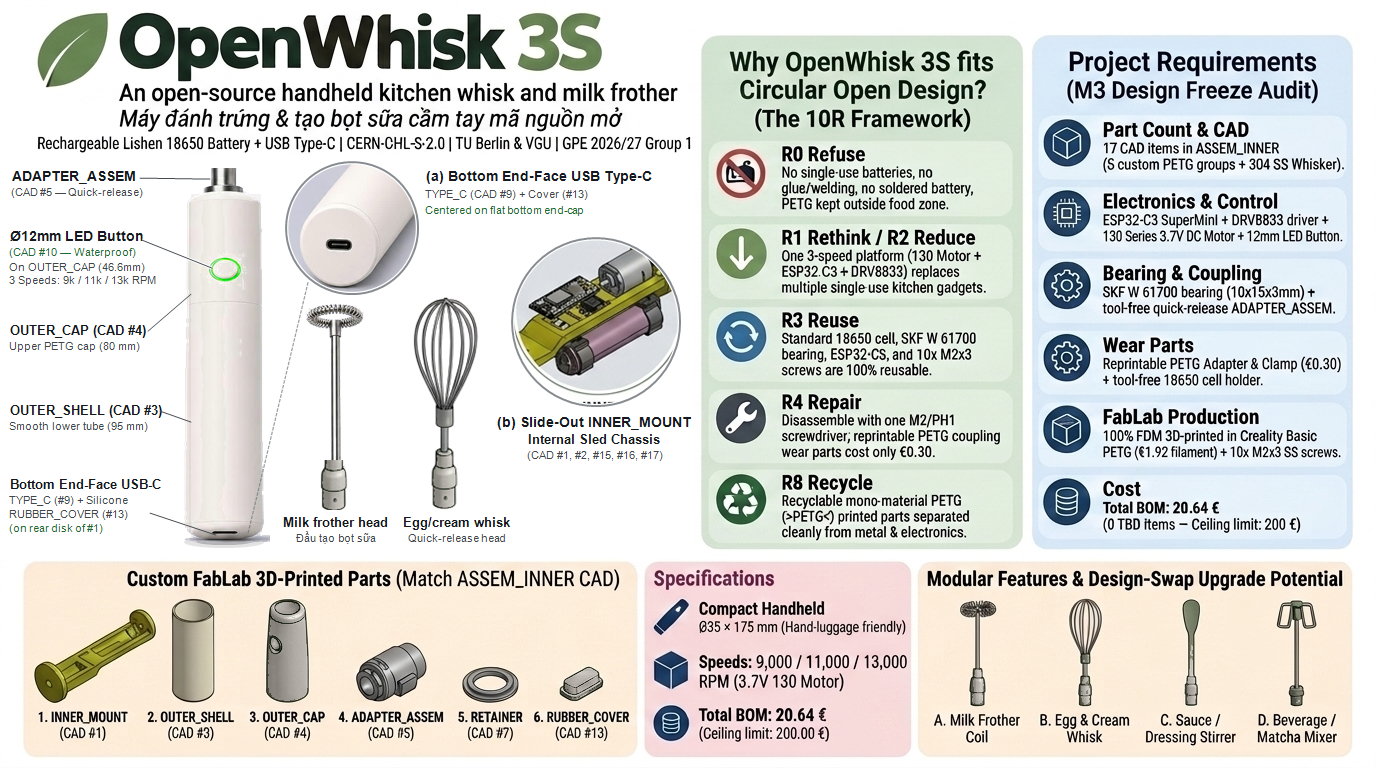
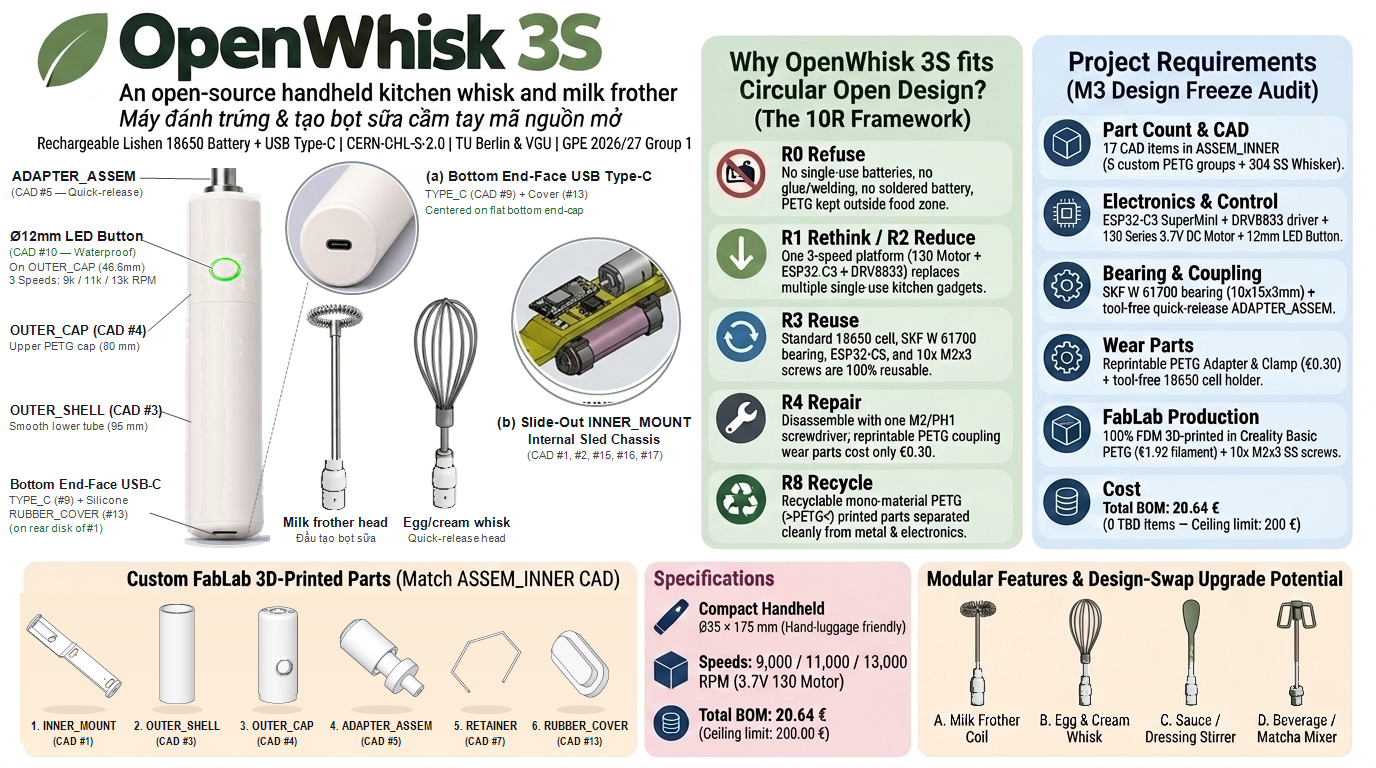
Update FabLab 3D-printed parts in README poster using actual white SolidWorks STL CAD meshes (straight OUTER_CAP)

diff --git a/images/README.md b/images/README.md
@@ -2,6 +2,6 @@
 
 | File | Caption |
 |---|---|
-| `concept-poster-v4.png` / `concept-poster.png` | M3 Concept & CAD Architecture Infographic updated with the latest CAD-aligned OpenWhisk 3S exterior design (`ASSEM_INNER` 17-item assembly, BOM `081126` €20.64). |
+| `concept-poster-v5.png` / `concept-poster.png` | M3 Concept & CAD Architecture Infographic updated with the latest white CAD-aligned OpenWhisk 3S exterior design and real SolidWorks `.STL` 3D-printed parts (`ASSEM_INNER` 17-item assembly, BOM `081126` €20.64). |
 | `openwhisk-render-lifestyle.jpg` | CAD-aligned M3 rendering of OpenWhisk 3S in kitchen environment (showing matte off-white housing, green LED ring button on `OUTER_CAP`, and bottom end-face USB-C port). |
 | `openwhisk-render-details.jpg` | Studio orthographic & detail rendering of OpenWhisk 3S (stainless-steel frother coil, `Ø12 mm` illuminated button on `OUTER_CAP`, and bottom end-face USB Type-C port). |

diff --git a/README.md b/README.md
@@ -5,7 +5,7 @@
 > GPE Project 2026/27 — *Open Source Hardware for a Circular Economy* (TU Berlin × VGU), **Group 1**.
 > Status: **M3 – design-freeze candidate (v0.3, 08 Nov 2026)**. Several functions are still being validated — see [Status & known gaps](#status--known-gaps).
 
-![Concept visual](images/concept-poster-v4.png)
+![Concept visual](images/concept-poster-v5.png)
 *Concept & architecture overview updated with the M3 CAD-aligned design (AI-assisted rendering, not a photo of a physical prototype). Additional renders are in [`images/`](images), and prototype photos will be added once fabricated.*
 
 ---
